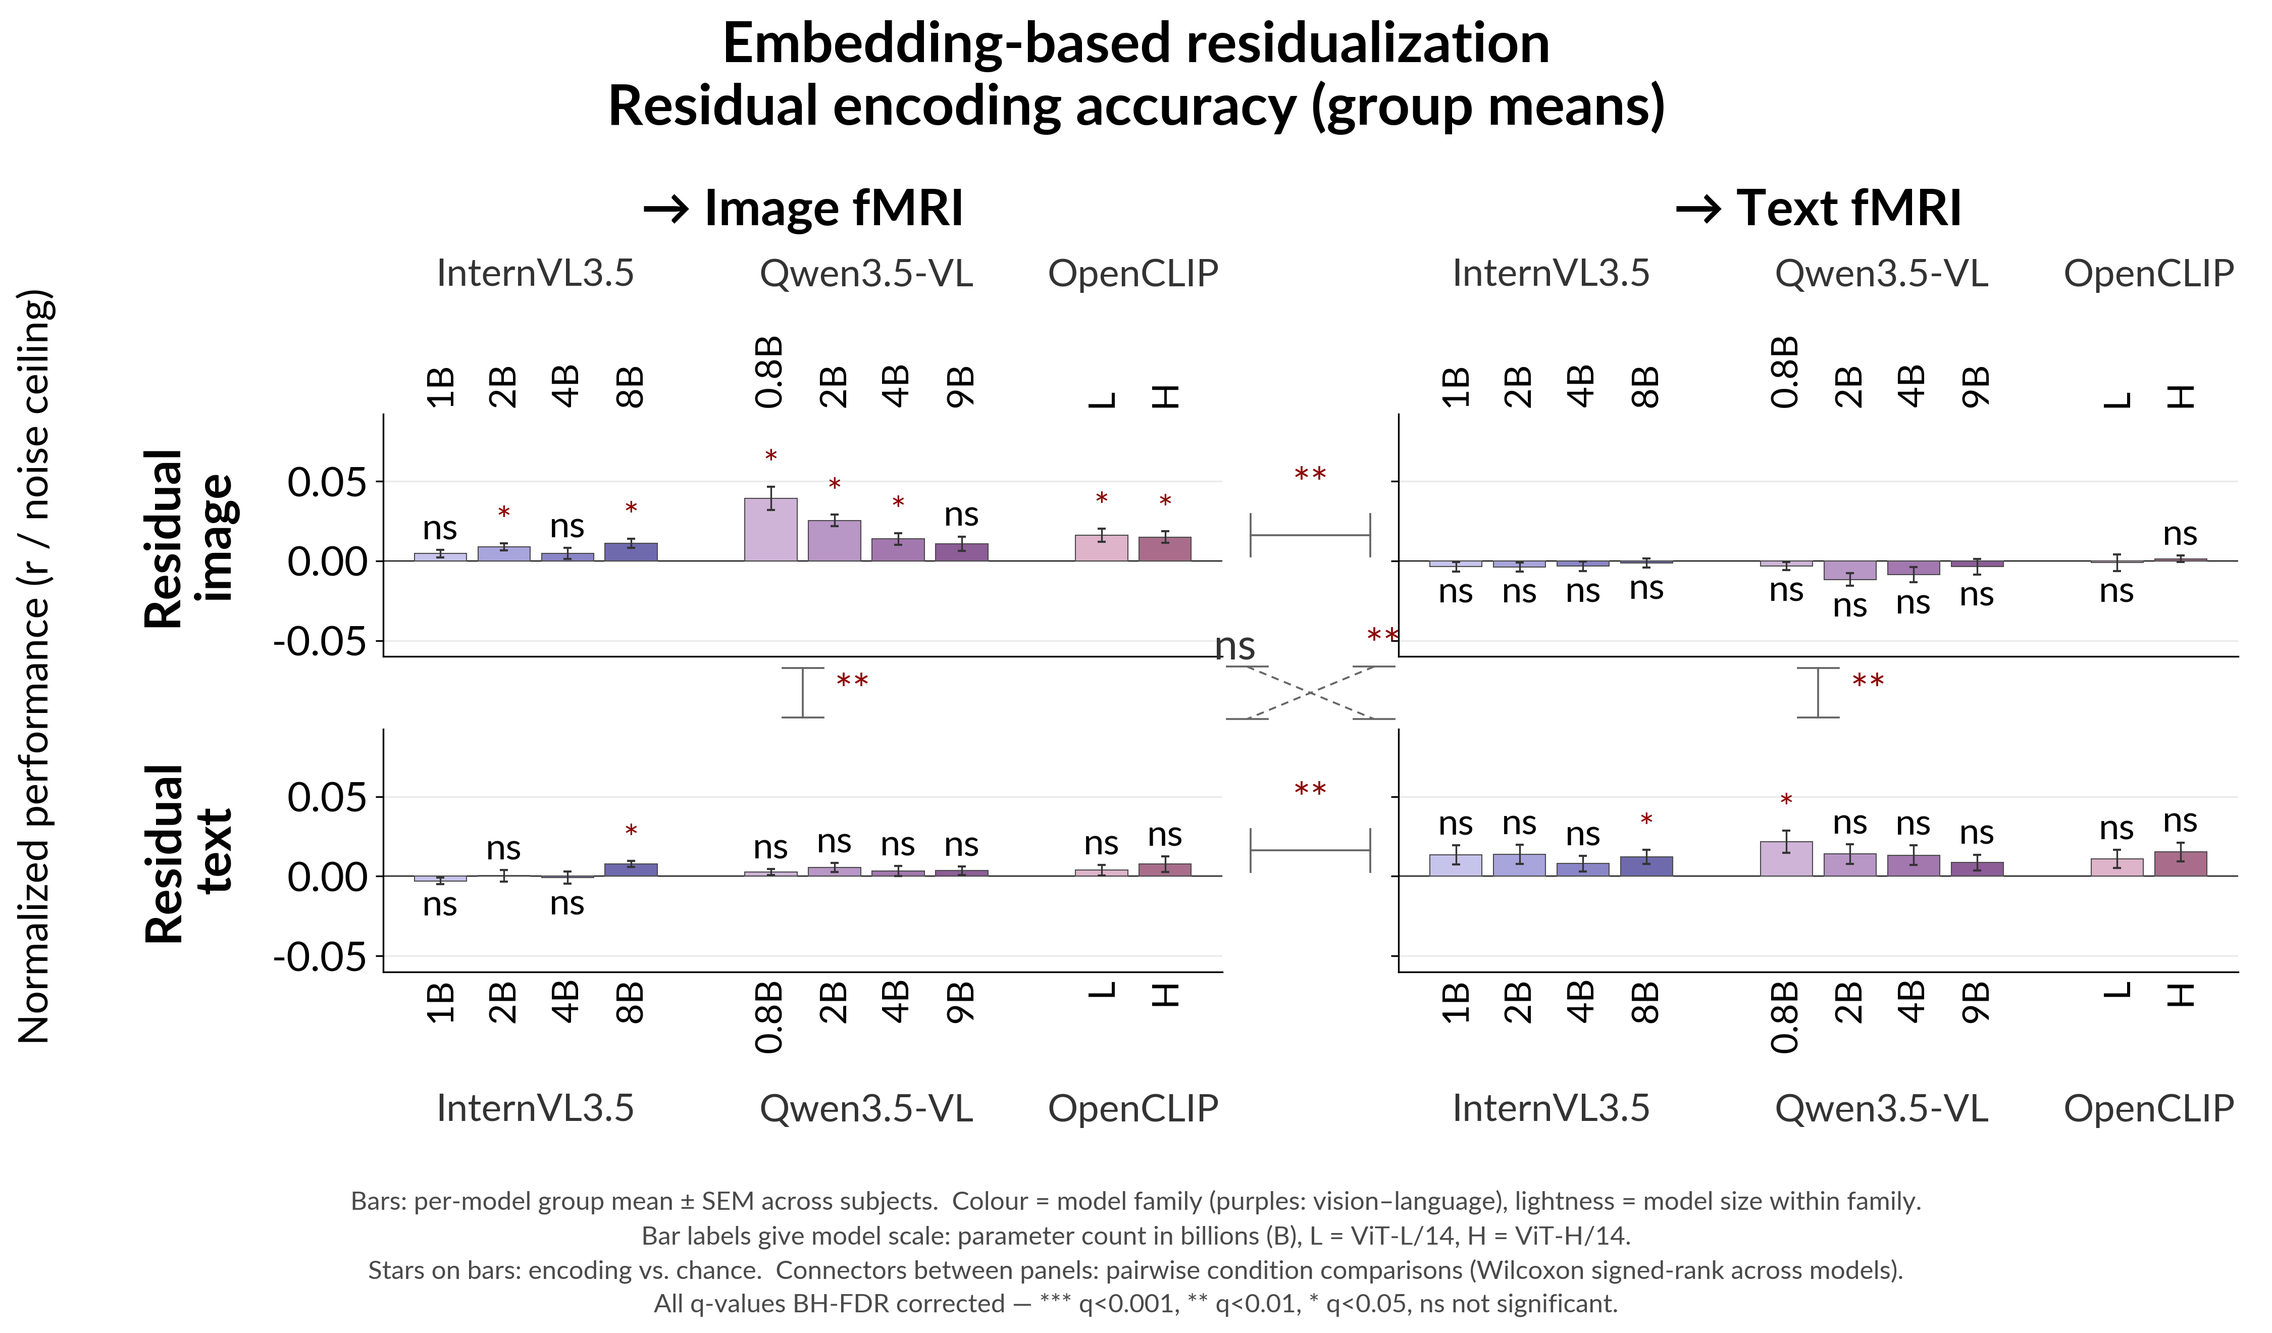
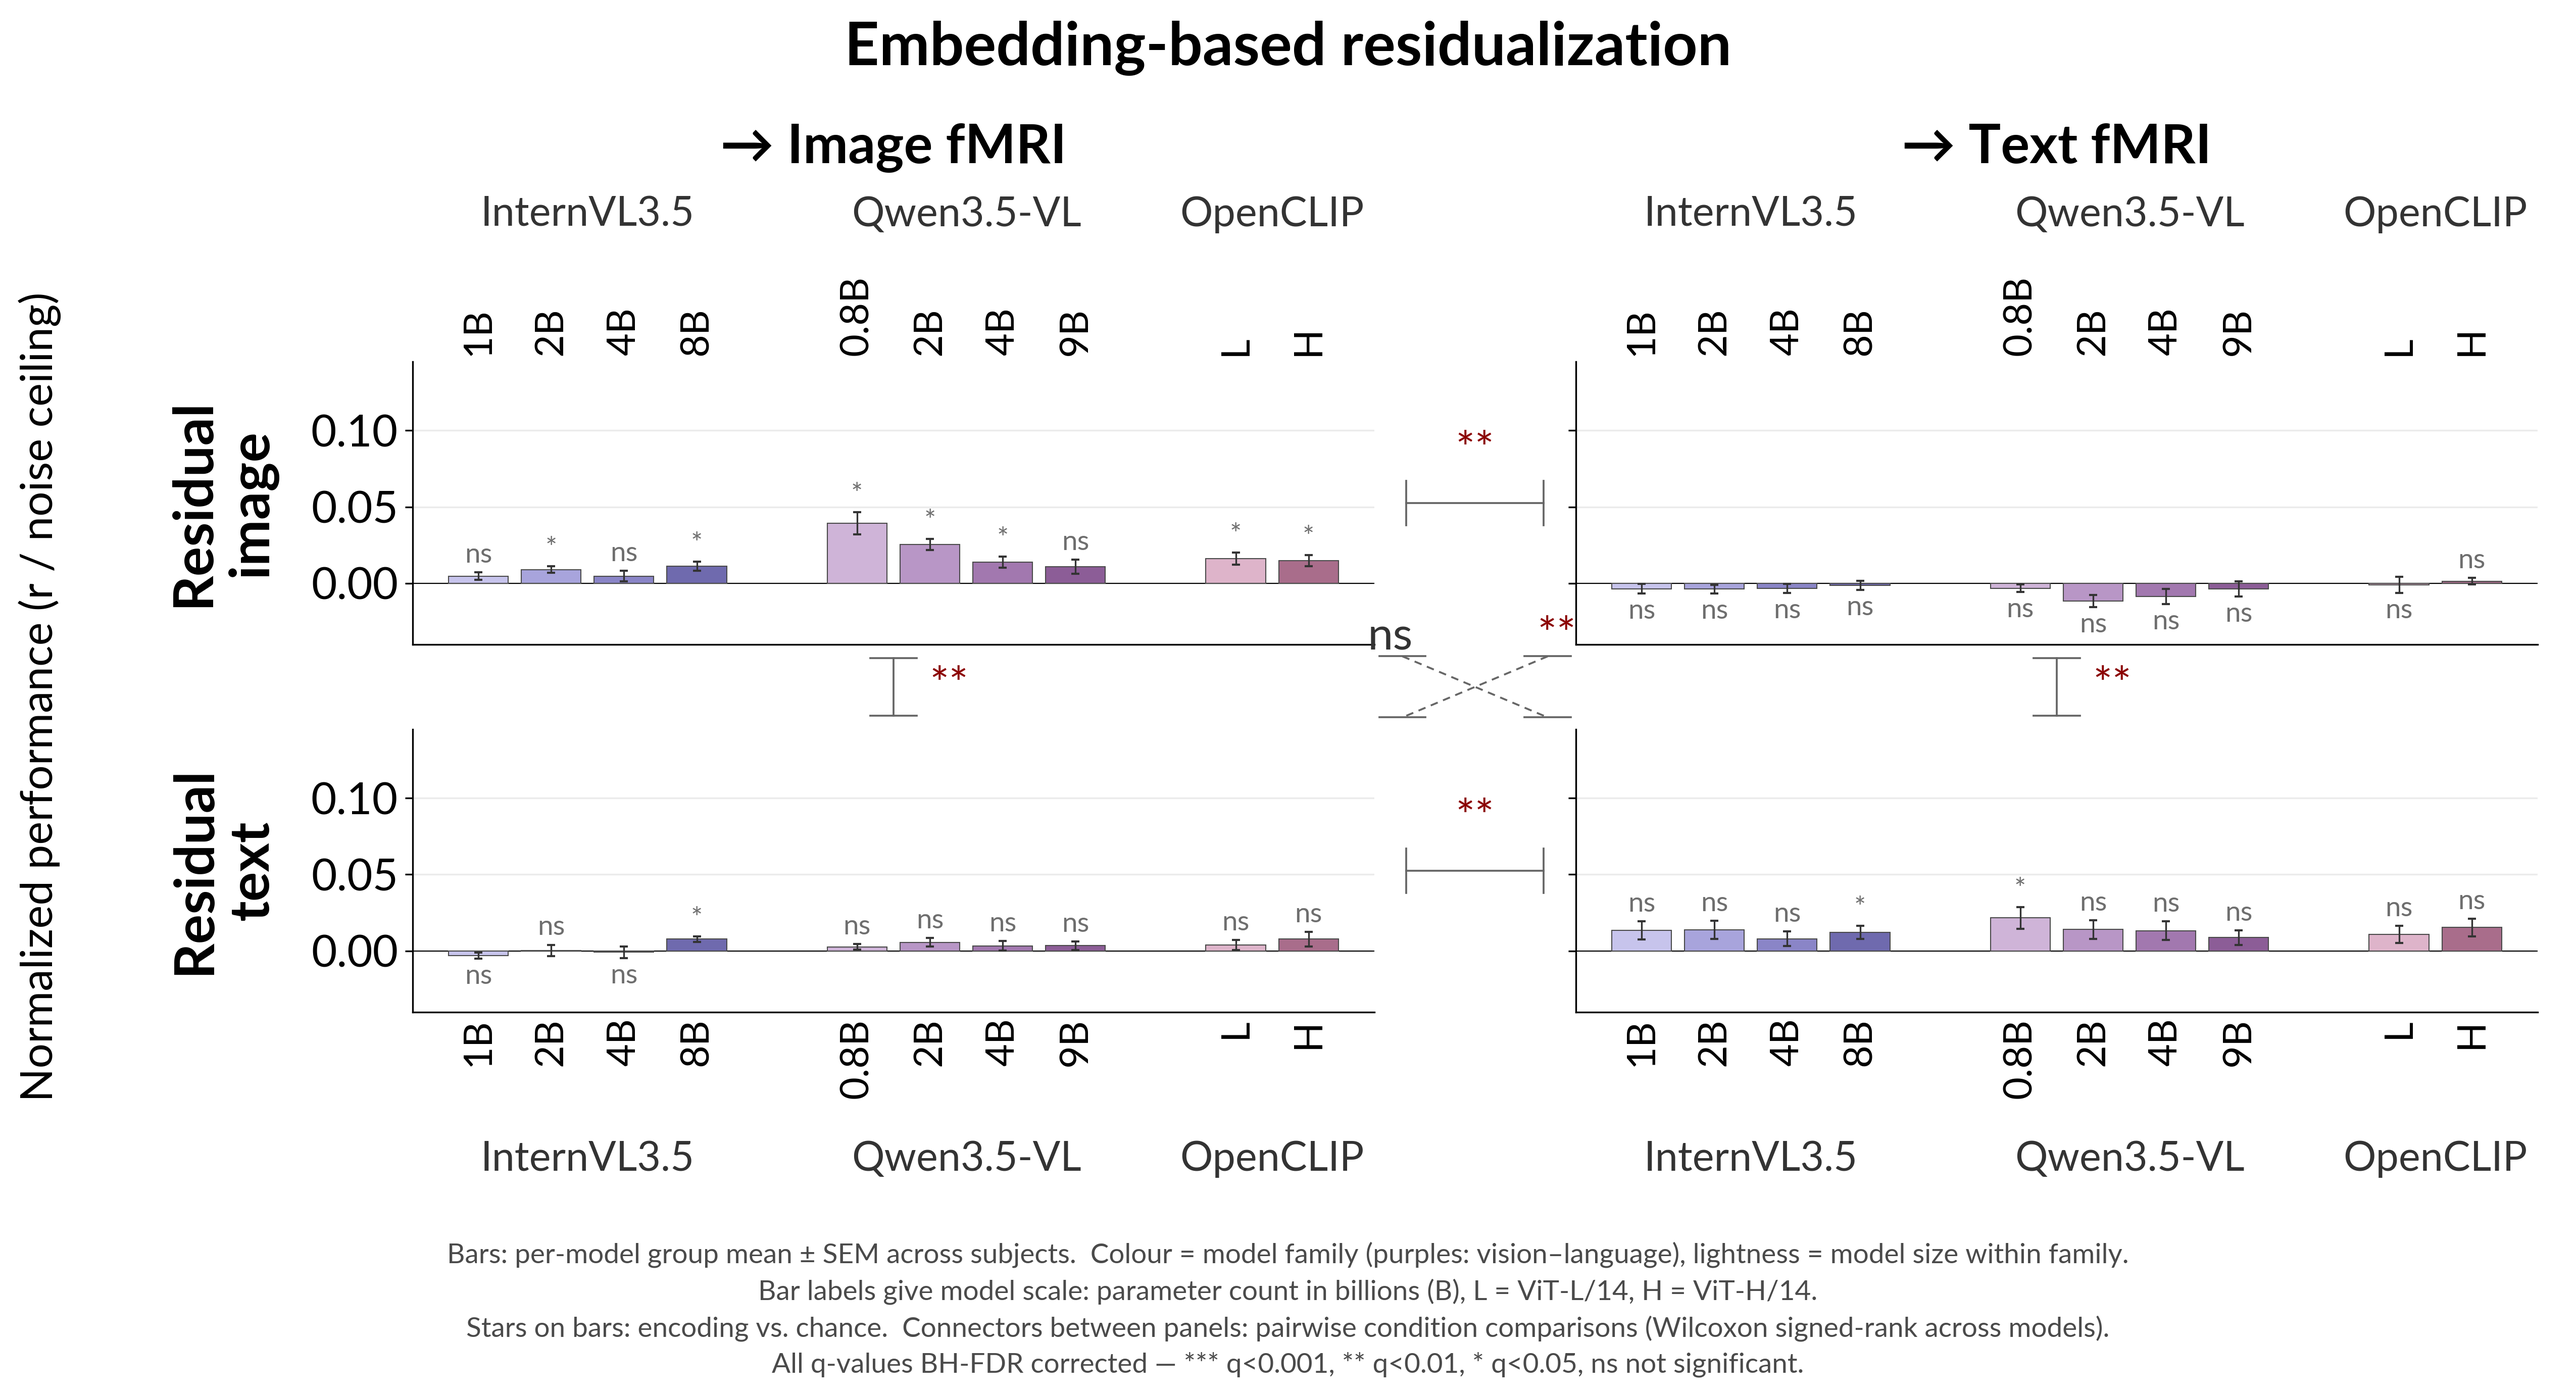
update visualization

diff --git a/cross_modal_neural_encoding/visualization/visualize_encoding_results.py b/cross_modal_neural_encoding/visualization/visualize_encoding_results.py
@@ -187,12 +187,40 @@ COLD_SUBJECT_PALETTE = [
     "#A3D2E2",  # cold pastel aqua
 ]
 
+# ── Per-bar significance markers ────────────────────────────────────────────
+# There is one of these above every bar, so their styling sets how much of a
+# dense panel is stars rather than data: at the pairwise brackets' size and
+# dark red they read as the most prominent thing in the figure. Small, tightly
+# stacked and grey keeps them legible as an annotation without competing.
+#
+# The pairwise brackets *between* groups keep the larger dark-red styling —
+# there are only a handful of them and they carry a different test, so their
+# prominence is proportionate.
+BAR_SIG_COLOR = "#6E6E6E"
+BAR_SIG_PT = 8.5  # multiplied by the figure's font_scale
+# Tight enough that a stacked "***" reads as one mark rather than three.
+BAR_SIG_LINESPACING = 0.42
+
 configure_plot_fonts()
 
 
 # ═══════════════════════════════════════════════════════════════════════════
 # Helpers
 # ═══════════════════════════════════════════════════════════════════════════
+
+
+def stacked_bar_marker(sig: str) -> str:
+    """Stack a run of asterisks one per line, for a marker drawn over a bar.
+
+    Stacking (rather than rotating the string 90°) keeps every glyph centred on
+    its bar — a rotated "***" lands off-centre, because the asterisk sits high
+    in its character cell. Doing it for "**" as well as "***" makes every marker
+    exactly one glyph wide, so no marker can overhang into a neighbouring bar
+    and the whole row of them reads at a single width.
+
+    ``"ns"`` is left horizontal: stacked letters stop reading as a word.
+    """
+    return "\n".join(sig) if set(sig) == {"*"} else sig
 
 
 def _legend_ncol(
@@ -894,12 +922,12 @@ def _plot_model_row(
         ax.text(
             i,
             y_pos,
-            sig,
+            stacked_bar_marker(sig),
             ha="center",
             va="bottom",
-            fontsize=12 * font_scale,
-            fontweight="bold",
-            color="black" if sig == "ns" else "darkred",
+            linespacing=BAR_SIG_LINESPACING,
+            fontsize=BAR_SIG_PT * font_scale,
+            color=BAR_SIG_COLOR,
         )
 
     # ── Axes formatting ───────────────────────────────────────────────────
@@ -1021,12 +1049,12 @@ def _plot_model_row(
                     ax_subject.text(
                         xj,
                         y_sig,
-                        sig,
+                        stacked_bar_marker(sig),
                         ha="center",
                         va=va,
-                        fontsize=8 * font_scale,
-                        rotation=90,
-                        color="black" if sig == "ns" else "darkred",
+                        linespacing=BAR_SIG_LINESPACING,
+                        fontsize=BAR_SIG_PT * font_scale,
+                        color=BAR_SIG_COLOR,
                         zorder=5,
                     )
 
@@ -1318,19 +1346,15 @@ def plot_grouped_model_means(
             pad = 0.015 * (y_max - y_min)
             y_sig = hj + (err + pad if hj >= 0 else -(err + pad))
             va = "bottom" if hj >= 0 else "top"
-            # Stack the significance characters vertically with newlines (rather
-            # than rotating the string 90°) so each glyph stays horizontally
-            # centred on the bar — a rotated "***" lands off-centre because the
-            # asterisk sits high in its character cell.
             ax.text(
                 xj,
                 y_sig,
-                "\n".join(sig),
+                stacked_bar_marker(sig),
                 ha="center",
                 va=va,
-                linespacing=0.6,
-                fontsize=10.0 * font_scale,
-                color="black" if sig == "ns" else "darkred",
+                linespacing=BAR_SIG_LINESPACING,
+                fontsize=BAR_SIG_PT * font_scale,
+                color=BAR_SIG_COLOR,
                 zorder=5,
             )
 
@@ -1611,10 +1635,10 @@ def _draw_matrix_panel(
         zorder=3,
     )
 
-    # Per-bar significance vs. chance. Drawn horizontally where a bar is wide
-    # enough for "***" at full size, and stacked vertically where it is not —
-    # a horizontal string that overflows its bar collides with its neighbours.
-    star_pt = 12.0 * font_scale
+    # Per-bar significance vs. chance. Always stacked (see stacked_bar_marker),
+    # so it no longer matters whether a bar is wide enough for the horizontal
+    # string — every marker is one glyph wide at any panel width.
+    star_pt = BAR_SIG_PT * font_scale
     y_min, y_max = ax.get_ylim()
     pad = 0.018 * (y_max - y_min)
     for pos, height, err, member in zip(positions, heights, errors, members):
@@ -1628,12 +1652,12 @@ def _draw_matrix_panel(
         ax.text(
             pos,
             top + (pad if height >= 0 else -pad),
-            "\n".join(sig) if 0.62 * star_pt * len(sig) > unit_pt else sig,
+            stacked_bar_marker(sig),
             ha="center",
             va="bottom" if height >= 0 else "top",
-            linespacing=0.62,
+            linespacing=BAR_SIG_LINESPACING,
             fontsize=star_pt,
-            color="black" if sig == "ns" else "darkred",
+            color=BAR_SIG_COLOR,
             zorder=5,
         )
 
@@ -1896,6 +1920,10 @@ def plot_condition_matrix(
     condition comparisons become the connectors between panels instead of six
     brackets stacked above the bars, which frees the vertical range those
     brackets used to reserve.
+
+    Explicit ``y_limits`` are applied exactly, so two figures given the same
+    limits and ``figsize`` share one scale. When left ``None`` the range is fit
+    to the data and then grown to leave room for the significance stars.
     """
     conditions = _condition_order_from_index(
         {c for item in model_results for c in item["aggregated_df"].index}
@@ -1922,6 +1950,7 @@ def plot_condition_matrix(
     )
     pair_qvalues = pairwise_condition_signrank(values, correction=group_sig_correction)
 
+    explicit_y_limits = y_limits is not None
     if y_limits is None:
         finite = np.isfinite(values)
         if not np.any(finite):
@@ -2011,10 +2040,10 @@ def plot_condition_matrix(
         for condition_index in panel_of_condition
     }
 
-    # Where a bar is too narrow for a horizontal "***" the stars stack, and the
-    # stack needs clear space above the tallest bar or it runs into the family
-    # labels. Convert that requirement from points into data units: to leave a
-    # fraction f of the panel height clear, the span has to grow by f*span/(1-f).
+    # The stars always stack now, and the stack needs clear space above the
+    # tallest bar or it runs into the family labels. Convert that requirement
+    # from points into data units: to leave a fraction f of the panel height
+    # clear, the span has to grow by f*span/(1-f).
     panel_box = axes[0][0].get_position()
     panel_pt = panel_box.height * figsize[1] * 72.0
     panel_w_pt = panel_box.width * figsize[0] * 72.0
@@ -2025,11 +2054,11 @@ def plot_condition_matrix(
         return panel_w_pt / (len(members) + BLOCK_GAP * (n_blocks - 1) + 1.8)
 
     unit_pt = min(_unit_pt(members) for members in panel_members.values())
-    star_pt = 12.0 * font_scale
-    stacked = 0.62 * star_pt * 3 > unit_pt
-    star_pt_h = (3 * star_pt * 0.62 if stacked else star_pt) + 8.0
+    star_pt = BAR_SIG_PT * font_scale
+    # Three stacked glyphs ("***" is the tallest marker), plus a fixed gap.
+    star_pt_h = 3 * star_pt * BAR_SIG_LINESPACING + 8.0
     headroom = star_pt_h / panel_pt
-    if 0.0 < headroom < 0.5:
+    if not explicit_y_limits and 0.0 < headroom < 0.5:
         span = y_limits[1] - y_limits[0]
         grow = headroom * span / (1.0 - headroom)
         # Bars below zero carry their stars underneath, so they need the same
@@ -2428,11 +2457,12 @@ def plot_subject_mean_across_models(
             ax.text(
                 xj,
                 y_sig,
-                sig,
+                stacked_bar_marker(sig),
                 ha="center",
                 va=va,
-                fontsize=8.5 * font_scale,
-                color="black" if sig == "ns" else "darkred",
+                linespacing=BAR_SIG_LINESPACING,
+                fontsize=BAR_SIG_PT * font_scale,
+                color=BAR_SIG_COLOR,
                 zorder=5,
             )
 

diff --git a/cross_modal_neural_encoding/visualization/visualize_residual_encoding.py b/cross_modal_neural_encoding/visualization/visualize_residual_encoding.py
@@ -42,6 +42,9 @@ from cross_modal_neural_encoding.utils import (
     significance_label,
 )
 from cross_modal_neural_encoding.visualization.visualize_encoding_results import (
+    BAR_SIG_COLOR,
+    BAR_SIG_LINESPACING,
+    BAR_SIG_PT,
     VLM_MODEL_PALETTE,
     _collect_model_dirs,
     _model_category_rank,
@@ -52,6 +55,7 @@ from cross_modal_neural_encoding.visualization.visualize_encoding_results import
     pairwise_condition_signrank,
     plot_condition_matrix,
     plot_grouped_model_means,
+    stacked_bar_marker,
 )
 
 # ═══════════════════════════════════════════════════════════════════════════
@@ -341,8 +345,9 @@ def plot_combined_delta(
                 y, va = val - sem - star_off, "top"
                 lowest = min(lowest, y - star_off)
             ax.text(
-                x[j] + offsets[i], y, sig, ha="center", va=va,
-                fontsize=6.5 * font_scale, color="darkred", zorder=5,
+                x[j] + offsets[i], y, stacked_bar_marker(sig), ha="center", va=va,
+                linespacing=BAR_SIG_LINESPACING,
+                fontsize=BAR_SIG_PT * font_scale, color=BAR_SIG_COLOR, zorder=5,
             )
     ax.set_ylim(bottom=min(ax.get_ylim()[0], lowest))
 
@@ -517,7 +522,9 @@ def main(cfg: DictConfig) -> None:
                 if matrix_y_cfg is not None
                 else None
             ),
-            title=f"{title_prefix}\nResidual encoding accuracy (group means)",
+            # One line, like the standard matrix: a second title line shrinks
+            # the panels, and with them the y-scale the two figures share.
+            title=title_prefix,
             show_error_bars=True,
             row_labels=matrix_rows,
             col_labels=matrix_cols,
